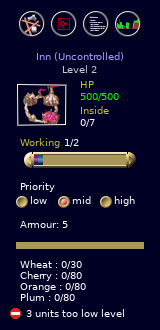
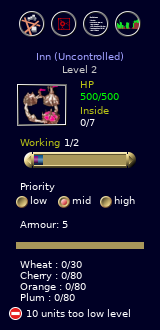
Antialias the failing-unit badge and give it the sign's white border
The badge was drawn with hard edges and a black rim, which is not how
anything else on screen is drawn: the game's own overlay for a forbidden
area, data/gfx/area-forbidden0.png, is 16 opaque pixels against 126 partly
transparent ones, and the unit sprites have no fully opaque pixel at all.
A staircased disc with a black outline was the one hard-edged thing in the
frame. Compute per-pixel coverage from the circle equation instead and draw
each row as runs of equal alpha, so the badge is smooth at the radii the
interface uses and at the ones a scaled-up interface asks for, and still
costs a handful of draw calls per row rather than one per pixel.

The black rim was there so the badge would read on a red team's own units,
which are the only units it is ever drawn on. Replace it with the white
border the real sign has: it does the same job, it belongs to the thing
being drawn rather than being an outline bolted onto it, and the red disc's
own soft edge then blends into white instead of into the grass behind it.

All eight reasons keep the one badge. Several reasons can hold for the same
unit with only the first one reported, so a per-reason shape would promise a
distinction the engine does not make; the panel row's text still names the
reason behind each tally.

The harness scene grows from three unschooled workers to ten, arranged as a
huddle, two pairs and two strays, so the saved screenshots show a screenful
[…]

Changed region(s): [[0.0312, 0.9091, 0.8125, 0.9697]]

diff --git a/src/gui/FailureShapes.cpp b/src/gui/FailureShapes.cpp
@@ -2,6 +2,7 @@
 #include "FailureShapes.h"
 
 #include <algorithm>
+#include <cmath>
 
 using namespace GAGCore;
 
@@ -12,45 +13,78 @@ Color failureShapeColor()
 
 namespace
 {
-	// Half-width of a filled disc of radius r at row dy. The r*r+r bias is the
-	// usual half-pixel one: it keeps the disc round rather than diamond-tipped
-	// at the radii the badge is actually drawn at (9 and 11 pixels across).
-	int discHalfWidth(int r, int dy)
+	// How much of one pixel a shape covers, from how far that pixel's centre
+	// lies inside the shape's edge: full half a pixel in, empty half a pixel
+	// out, linear across the edge itself. The game's own artwork is drawn this
+	// way -- data/gfx/area-forbidden0.png, the overlay for a forbidden area,
+	// has 16 opaque pixels against 126 partly transparent ones -- so a badge
+	// with hard edges would be the one thing on screen that stair-steps.
+	float coverage(float inside)
 	{
-		int h = 0;
-		while ((h+1)*(h+1) <= r*r + r - dy*dy)
-			++h;
-		return h;
+		return std::clamp(inside + 0.5f, 0.0f, 1.0f);
 	}
 
-	void disc(GraphicContext* gfx, int cx, int cy, int r, const Color& color)
+	Uint8 alphaOf(float cov)
 	{
-		for (int dy = -r; dy <= r; ++dy)
+		return static_cast<Uint8>(cov * 255.0f + 0.5f);
+	}
+
+	// One row of a shape, with pixels of equal alpha merged into a single
+	// line: a badge then costs a few draw calls per row rather than one per
+	// pixel, and the solid middle of the disc costs exactly one.
+	template<typename AlphaAt>
+	void drawRow(GraphicContext* gfx, int cx, int y, int span, const Color& color, AlphaAt alphaAt)
+	{
+		int runStart = -span;
+		int runAlpha = alphaAt(-span);
+		for (int dx = -span+1; dx <= span+1; ++dx)
 		{
-			const int h = discHalfWidth(r, dy);
-			gfx->drawHorzLine(cx-h, cy+dy, 2*h+1, color);
+			const int alpha = dx <= span ? alphaAt(dx) : -1;
+			if (alpha == runAlpha)
+				continue;
+			if (runAlpha > 0)
+				gfx->drawHorzLine(cx+runStart, y, dx-runStart, Color(color.r, color.g, color.b, static_cast<Uint8>(runAlpha)));
+			runStart = dx;
+			runAlpha = alpha;
 		}
 	}
 }
 
 void drawFailureShape(GraphicContext* gfx, int cx, int cy, int r, Building::UnitCantWorkReason /*reason*/, const Color& color)
 {
-	// Every reason wears the same badge: a mini "no entry" sign, a filled disc
-	// with a white bar across the middle. Which reason applies is spelled out
-	// as text next to the shape in the building panel; the tiny map badge only
-	// needs to say "blocked". Drawn from the disc equation rather than from an
-	// asset so it stays exact at any radius, including the interface scales
-	// that blow the badge up several times over.
-	disc(gfx, cx, cy, r+1, Color(0, 0, 0)); // a dark rim, so it reads on a unit of any team colour, red included
-	disc(gfx, cx, cy, r, color);
-	// The bar is a straight-ended rectangle clipped to the disc, about 2/7 of
-	// it tall and 3/4 of it wide as on the sign itself, with a floor of one
-	// pixel either way for the radii where those fractions round to nothing.
-	const int barHalfH = std::max(1, (r+1)/4);
-	const int barHalfW = r - std::max(1, r/4);
-	for (int dy = -barHalfH; dy <= barHalfH; ++dy)
+	// Every reason wears the same badge: a mini "no entry" sign, a red disc
+	// with a white bar across the middle inside a white border. Which reason
+	// applies is spelled out as text next to the shape in the building panel;
+	// the tiny map badge only needs to say "blocked", and several reasons can
+	// apply to the same unit at once with only the first one reported, so
+	// telling them apart by shape would be a promise the engine cannot keep.
+	//
+	// Drawn from the circle equation rather than loaded from an asset, so the
+	// badge is exact at any size the interface is laid out at, including the
+	// scaled-up interface where a fixed-size sprite would be resampled.
+	const float radius = r + 0.5f;       // the red disc: 2r+1 pixels across
+	const float border = radius + 1.0f;  // the sign's white border, a pixel of it
+	// The bar keeps the sign's proportions as the badge grows: a little under
+	// a third of the disc tall and three quarters of it wide.
+	const float barHalfH = radius * 2.0f / 7.0f;
+	const float barHalfW = radius * 3.0f / 4.0f;
+	const Color white(255, 255, 255);
+	const int span = r + 2;
+	for (int dy = -span; dy <= span; ++dy)
 	{
-		const int h = std::min(barHalfW, discHalfWidth(r, dy));
-		gfx->drawHorzLine(cx-h, cy+dy, 2*h+1, Color(255, 255, 255));
+		auto distance = [dy](int dx) { return std::sqrt(static_cast<float>(dx*dx + dy*dy)); };
+		// The border is a full disc rather than a ring, so the red disc's own
+		// soft edge blends into white instead of into whatever is behind the
+		// badge. Without it the sign disappears on a red team's own units,
+		// which are exactly the units it is ever drawn on.
+		drawRow(gfx, cx, cy+dy, span, white,
+			[&](int dx) { return alphaOf(coverage(border - distance(dx))); });
+		drawRow(gfx, cx, cy+dy, span, color,
+			[&](int dx) { return alphaOf(coverage(radius - distance(dx))); });
+		drawRow(gfx, cx, cy+dy, span, white, [&](int dx) {
+			return alphaOf(std::min({coverage(barHalfW - std::abs(dx)),
+			                         coverage(barHalfH - std::abs(dy)),
+			                         coverage(radius - distance(dx))}));
+		});
 	}
 }

diff --git a/test/FailingUnitMarkersHarness.cpp b/test/FailingUnitMarkersHarness.cpp
@@ -106,13 +106,17 @@ namespace
 class FailingUnitMarkersHarness
 {
 public:
+	// Unschooled workers: a four-strong huddle, two pairs and two strays, so
+	// the saved scene shows what a screenful of badges looks like at real size
+	// and whether badges on neighbouring tiles stay apart.
+	static const int LOW_COUNT = 10;
 	struct Scene
 	{
-		Team* team; Building* inn; Unit* low[3]; Unit* schooled;
-		int lowX[3] = {4, 12, 6};
-		int lowY[3] = {4, 5, 12};
+		Team* team; Building* inn; Unit* low[LOW_COUNT]; Unit* schooled;
+		int lowX[LOW_COUNT] = {4, 5, 4,  5, 12, 13,  6,  7, 2, 14};
+		int lowY[LOW_COUNT] = {4, 4, 5,  5,  5,  5, 12, 12, 3, 12};
 	};
-	// A level-2 inn wanting wheat: only schooled workers may stock it. Three
+	// A level-2 inn wanting wheat: only schooled workers may stock it. Ten
 	// unschooled workers spread around it, one schooled next to a wheat tile.
 	static Scene buildScene(Game& game)
 	{
@@ -134,7 +138,7 @@ public:
 		scene.inn->resources[CORN] = 0;
 		scene.inn->updateCallLists();
 		require(game.map.incResource(2, 10, CORN, 0), "seed a wheat tile");
-		for (int i = 0; i < 3; ++i)
+		for (int i = 0; i < LOW_COUNT; ++i)
 			scene.low[i] = worker(game, scene.team, scene.lowX[i], scene.lowY[i], 0);
 		scene.schooled = worker(game, scene.team, 3, 10, 1);
 		return scene;
@@ -187,7 +191,7 @@ public:
 
 	// Not recording: nothing is remembered.
 	team->updateAllBuildingTasks();
-	require(inn->unitsFailingRequirements[Building::UnitTooLowLevel] == 3, "three unschooled workers are counted too low");
+	require(inn->unitsFailingRequirements[Building::UnitTooLowLevel] == LOW_COUNT, "every unschooled worker is counted too low");
 	require(inn->unitsFailingByReason[Building::UnitTooLowLevel].empty(), "nothing remembered while not recording");
 	require(inn->unitsWorking.size() == 1 && inn->unitsWorking.front() == schooled, "the schooled worker is hired");
 
@@ -195,8 +199,8 @@ public:
 	inn->setRecordFailingUnits(true);
 	team->updateAllBuildingTasks();
 	const std::vector<Uint16>& tooLow = inn->unitsFailingByReason[Building::UnitTooLowLevel];
-	require(tooLow.size() == 3, "three gids remembered under too-low-level");
-	for (int i = 0; i < 3; ++i)
+	require(tooLow.size() == LOW_COUNT, "every unschooled worker's gid is remembered under too-low-level");
+	for (int i = 0; i < LOW_COUNT; ++i)
 		require(std::find(tooLow.begin(), tooLow.end(), low[i]->gid) != tooLow.end(), "each unschooled worker is remembered");
 	require(std::find(tooLow.begin(), tooLow.end(), schooled->gid) == tooLow.end(), "the schooled worker (already hired) is not");
 	std::puts("markers: the selected building remembers the units behind each tally");
@@ -220,7 +224,7 @@ public:
 	view.selectedBuilding = inn;
 	Frame frame = render(view);
 	save(frame, "scene-inn-selected");
-	for (int i = 0; i < 3; ++i)
+	for (int i = 0; i < LOW_COUNT; ++i)
 	{
 		const int added = redPixelsInTile(frame, lowX[i], lowY[i]) - redPixelsInTile(baseline, lowX[i], lowY[i]);
 		std::printf("markers: unschooled worker at (%d,%d): %d red marker pixels\n", lowX[i], lowY[i], added);

diff --git a/src/gui/FailureShapes.h b/src/gui/FailureShapes.h
@@ -3,11 +3,12 @@
 #include "GraphicContext.h"
 #include "Building.h"
 
-/// A mini "no entry" sign (a filled red disc with a white bar across the
-/// middle), drawn centred on (cx, cy) with half-size r. The building panel
-/// puts it next to the tally, the map view over every unit behind that tally,
-/// so a player can tell at a glance that a unit was blocked from hiring; the
-/// specific reason is spelled out in the panel row's text, not in the shape.
+/// A mini "no entry" sign (a red disc with a white bar across the middle,
+/// inside a white border, antialiased), drawn centred on (cx, cy) with
+/// half-size r. The building panel puts it next to the tally, the map view
+/// over every unit behind that tally, so a player can tell at a glance that a
+/// unit was blocked from hiring; the specific reason is spelled out in the
+/// panel row's text, not in the shape.
 void drawFailureShape(GAGCore::GraphicContext* gfx, int cx, int cy, int r, Building::UnitCantWorkReason reason, const GAGCore::Color& color);
 
 /// The colour every failure marker is drawn in.
